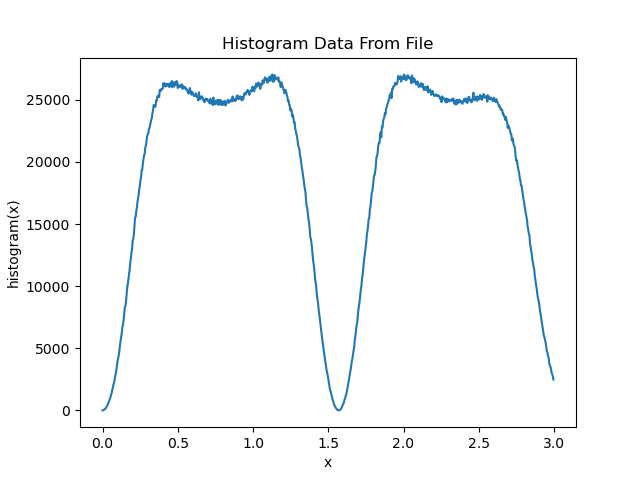
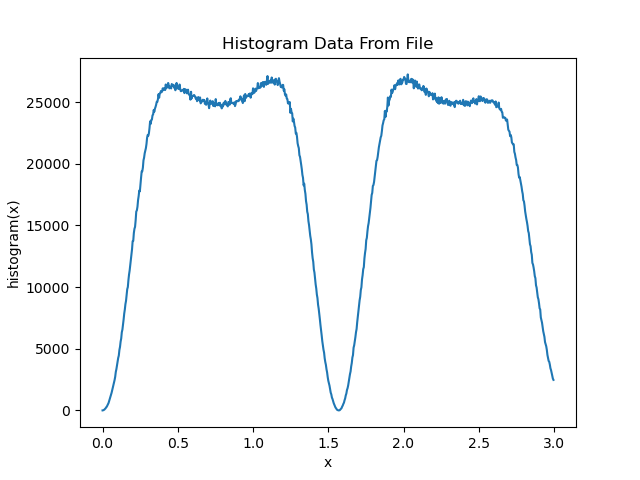
looks like bfgs is working

diff --git a/WHAM_Convergence_1D.py b/WHAM_Convergence_1D.py
@@ -136,6 +136,7 @@ class WhamConvergence1D:
             self.setBiasMatrix()
         
         #need some way to guess an original probability distribution
+        #using 5*N because only nearest sims acutually contribute
         pd = array(size(self.hist),dtype=float)
         pd = self.hist/(self.sNum*self.N)
         
@@ -197,7 +198,7 @@ class WhamConvergence1D:
                 if (self.hist[j] != 0):
                     sum2 = 0
                     for i2 in self.simi:
-                        sum2 = sum2 + (self.N*exp(g[i2]*self.Cij[i2][j]))
+                        sum2 = sum2 + (self.N*exp(g[i2])*self.Cij[i2][j])
                     if (sum2 != 0):
                         # if (j == 5) and (i == 1):
                         #     print('sum2')
@@ -254,12 +255,12 @@ class WhamConvergence1D:
         gi0 = gik
         
         #pk is the line search vector
-        pk = -1*dot(H,dgiA)
+        pk = -1*inner(H,dgiA)
         # print('pk')
         # print(pk)
         
         #tolerance for armijo condition: f(x+(alpha * pk)) < f(x) + tol
-        tol = b * dot(dgiA.T,pk)
+        tol = b * inner(dgiA,pk)
         A0 = self.optFuncCalc(gi0)
         ATol = A0 + (a0 * tol)
         
@@ -399,30 +400,31 @@ class WhamConvergence1D:
 # %% 
 #TEST CELL
         
+xmn = 0
+xmx = 3
+simnum = 10
+binsize = 1/50
+spK = 2
+sampnum = 100000
+fname = "data-files/xmn0_xmx3_simNum10_bs0.02_k2_n100000_xp1nverseSinSq2x.txt"
+
+
+
 # =============================================================================
 # xmn = 0
 # xmx = 3
-# simnum = 300
-# binsize = 1/500
-# spK = 49
+# simnum = 150
+# binsize = 1/250
+# spK = 36
 # sampnum = 100000
-# fname = 'data-files/xmn0_xmx3_simNum300_bs0.002_k49_n100000_xp1nverseSinSq2x.txt'  
+# fname ='data-files/xmn0_xmx3_simNum150_bs0.004_k36_n100000_xp1nverseSinSq2x.txt'
 # =============================================================================
-
-
-xmn = 0
-xmx = 3
-simnum = 150
-binsize = 1/250
-spK = 36
-sampnum = 100000
-fname ='data-files/xmn0_xmx3_simNum150_bs0.004_k36_n100000_xp1nverseSinSq2x.txt'
 
 tW = WhamConvergence1D(xmn,xmx,simnum,binsize,spK,sampnum,fname)
 tW.giSetGuess()
 
-a0c = 2
-betac = 0.99
+a0c = 1
+betac = 0.001
 taoc = 0.9
 il = 15000
 tW.BFGSConvergence(a0c, taoc, betac, il, 5, .01)

diff --git a/sample_generator_1D.py b/sample_generator_1D.py
@@ -138,10 +138,11 @@ class SampleConstructor1D:
                 #random 0-fmax, accept the point
                 if rhoxt > y:
                     #accept sample even if it is not in xmn-xmx
-                    i = i + 1
+                    # i = i + 1
                     if (i == floor(self.N/2)):
                         print('1/2 way')
                     if (xt < self.xmx) and (xt > self.xmn):
+                        i = i + 1
                         #add accepted point to the correct bin
                         #convert from float to int
                         histbinf = (xt/self.bs)
@@ -251,9 +252,9 @@ class SampleConstructor1D:
 
 xmn = 0
 xmx = 3
-simnum = 300
-binsize = 1/500
-spK = 49
+simnum = 10
+binsize = 1/50
+spK = 2
 sampnum = 100000
 
 testGen = SampleConstructor1D(xmn, xmx, simnum, binsize, spK, sampnum)
